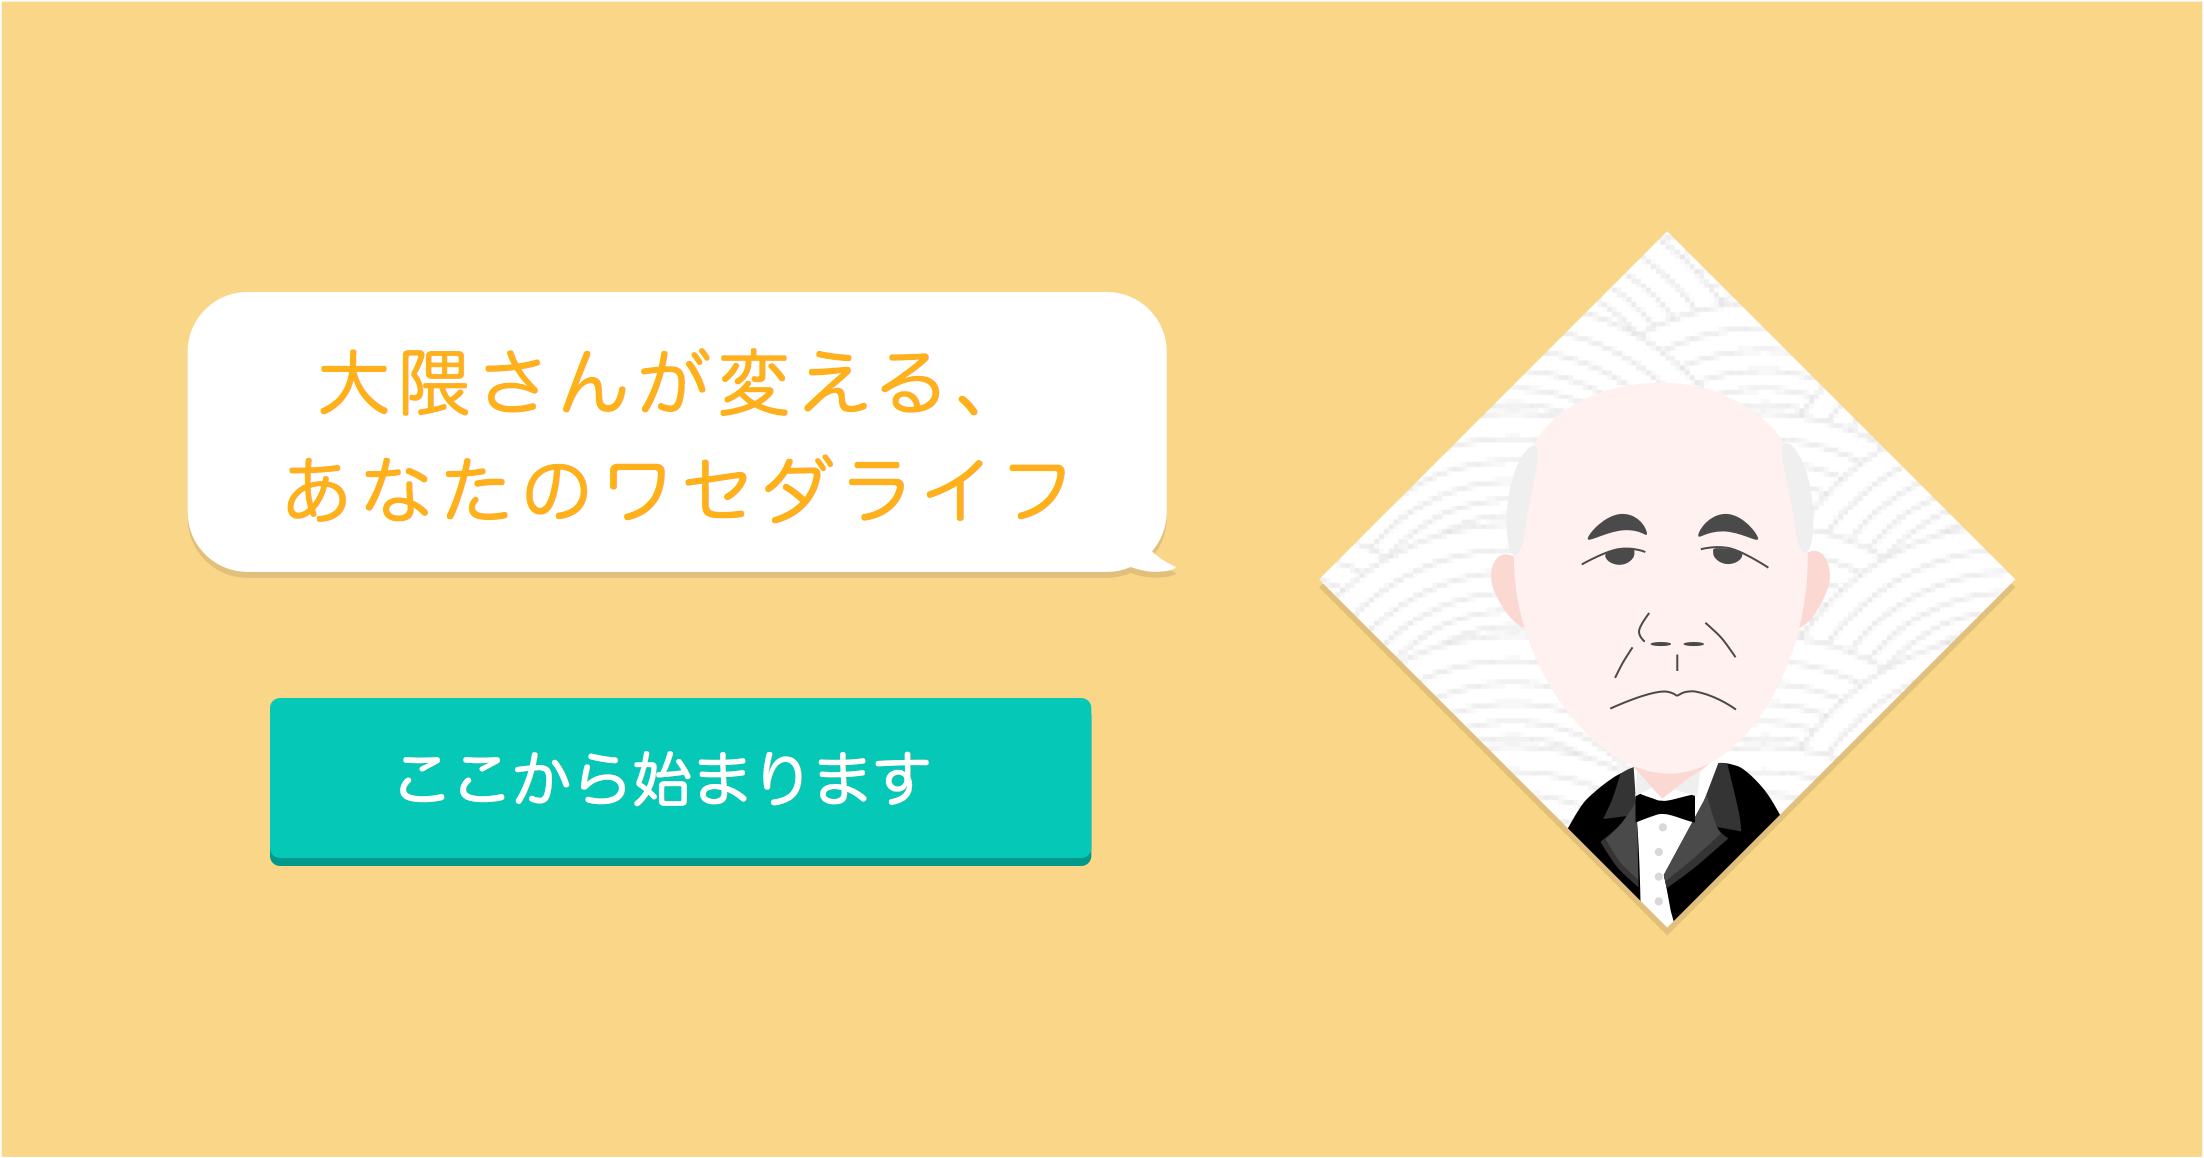
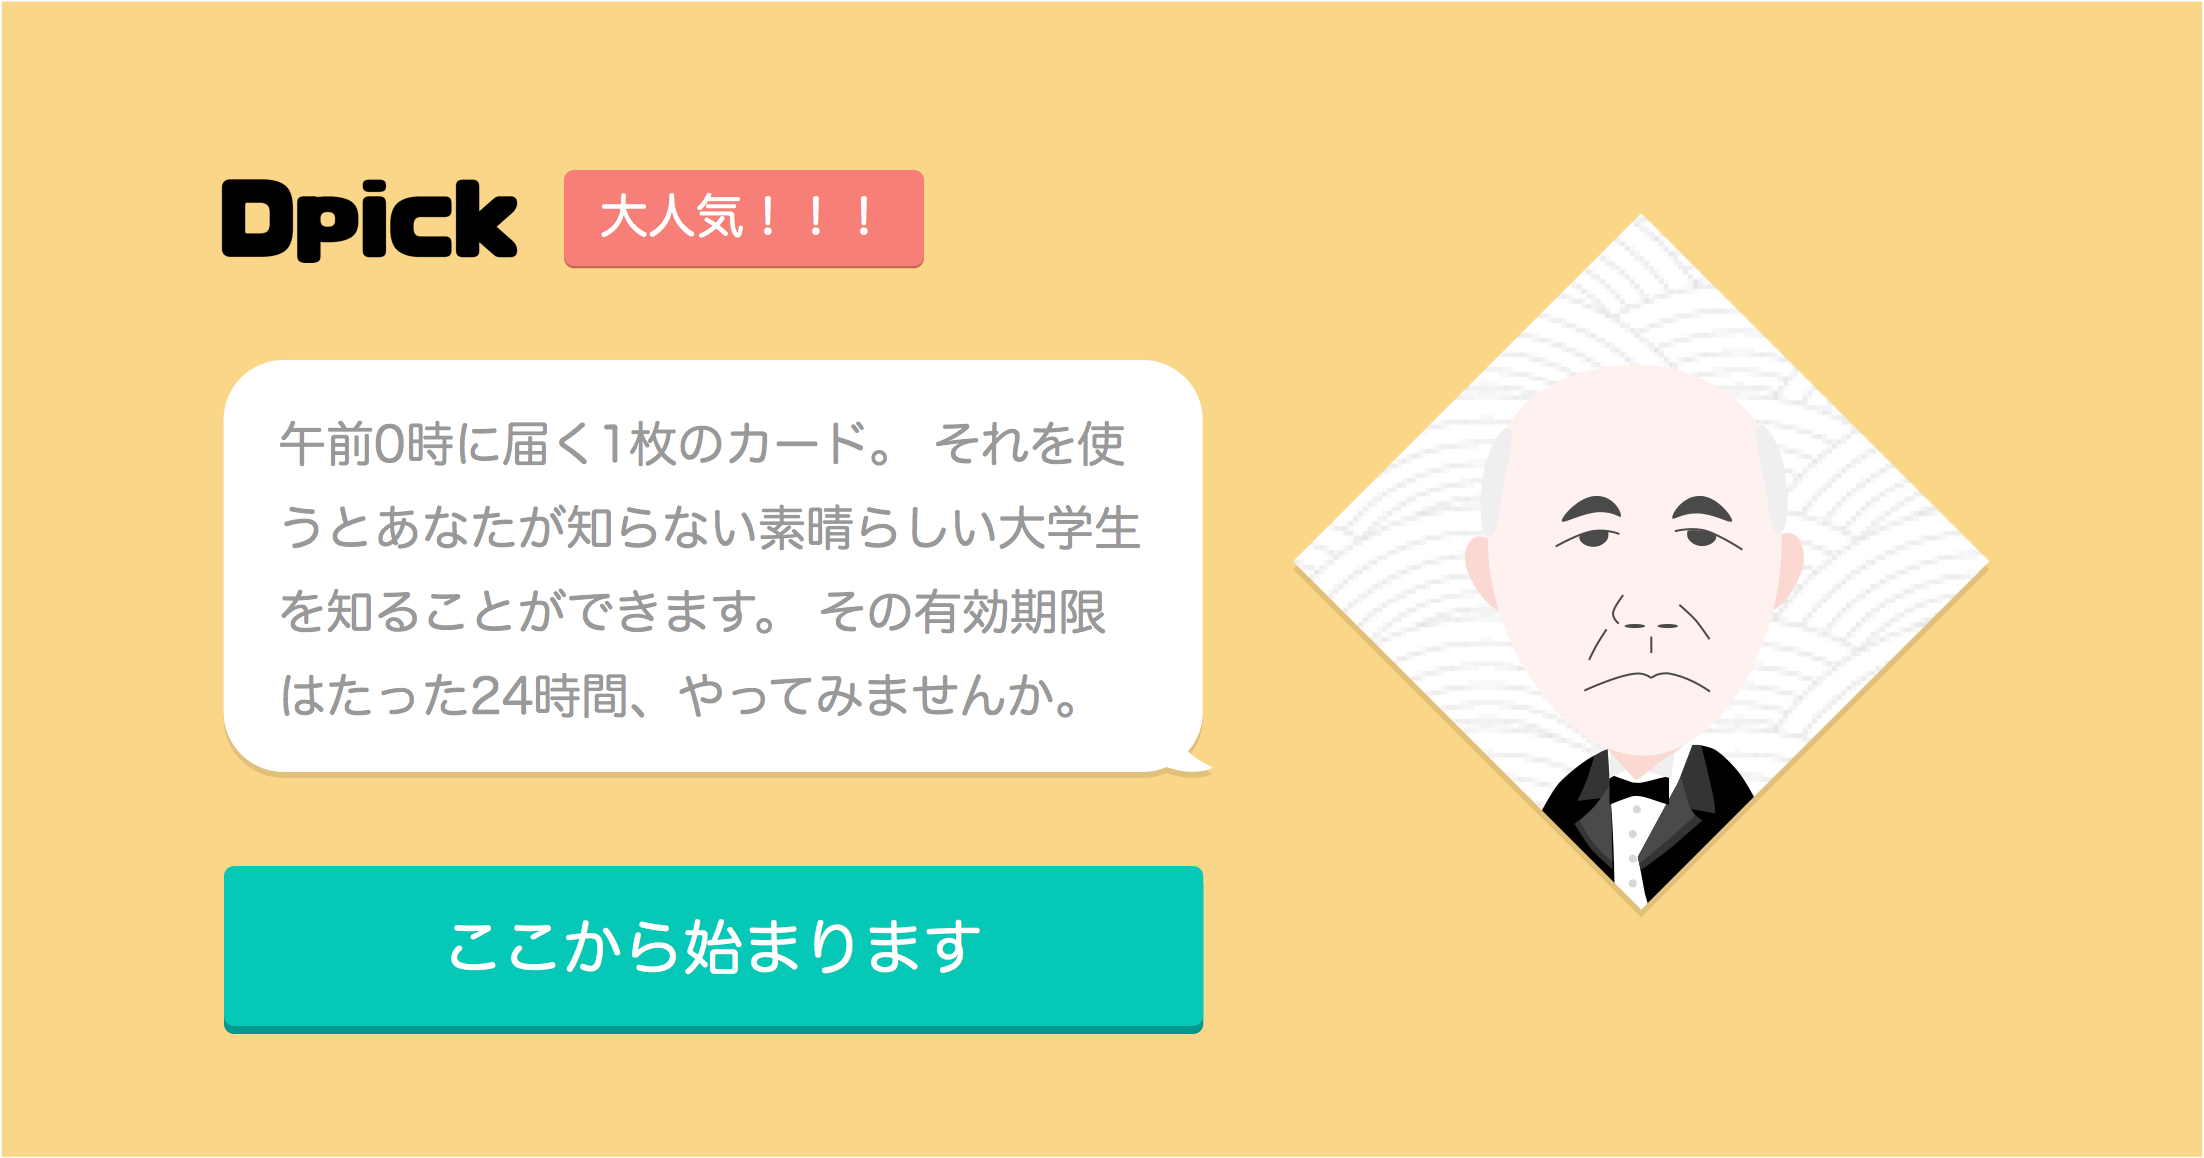
0813 go:thumbnail and description adjusted

diff --git a/index.html b/index.html
@@ -6,7 +6,7 @@
     <meta name="viewport" content="width=device-width, initial-scale=1.0">
     <meta content="assets/img/thumbnail.png" property="og:image"></meta>
     <meta content="Dpick" property="og:title"></meta>
-    <meta content="5万人の早稲田生のための、早稲田生だけの無料友だち交流コーディネートサービス #Dpick が誕生＼(^o^)／ 早稲田生は見てみなきゃ！" property="og:description"></meta>
+    <meta content="午前0時に届く1枚のカード。 それを使うとあなたが知らない素晴らしい大学生を知ることができます。 その有効期限はたった24時間、やってみませんか。" property="og:description"></meta>
     <link rel="shortcut icon" type="image/png" href="assets/img/favicon.png"/>
     <!-- Bootstrap -->
     <link href="assets/css/bootstrap.min.css" rel="stylesheet" media="screen">
